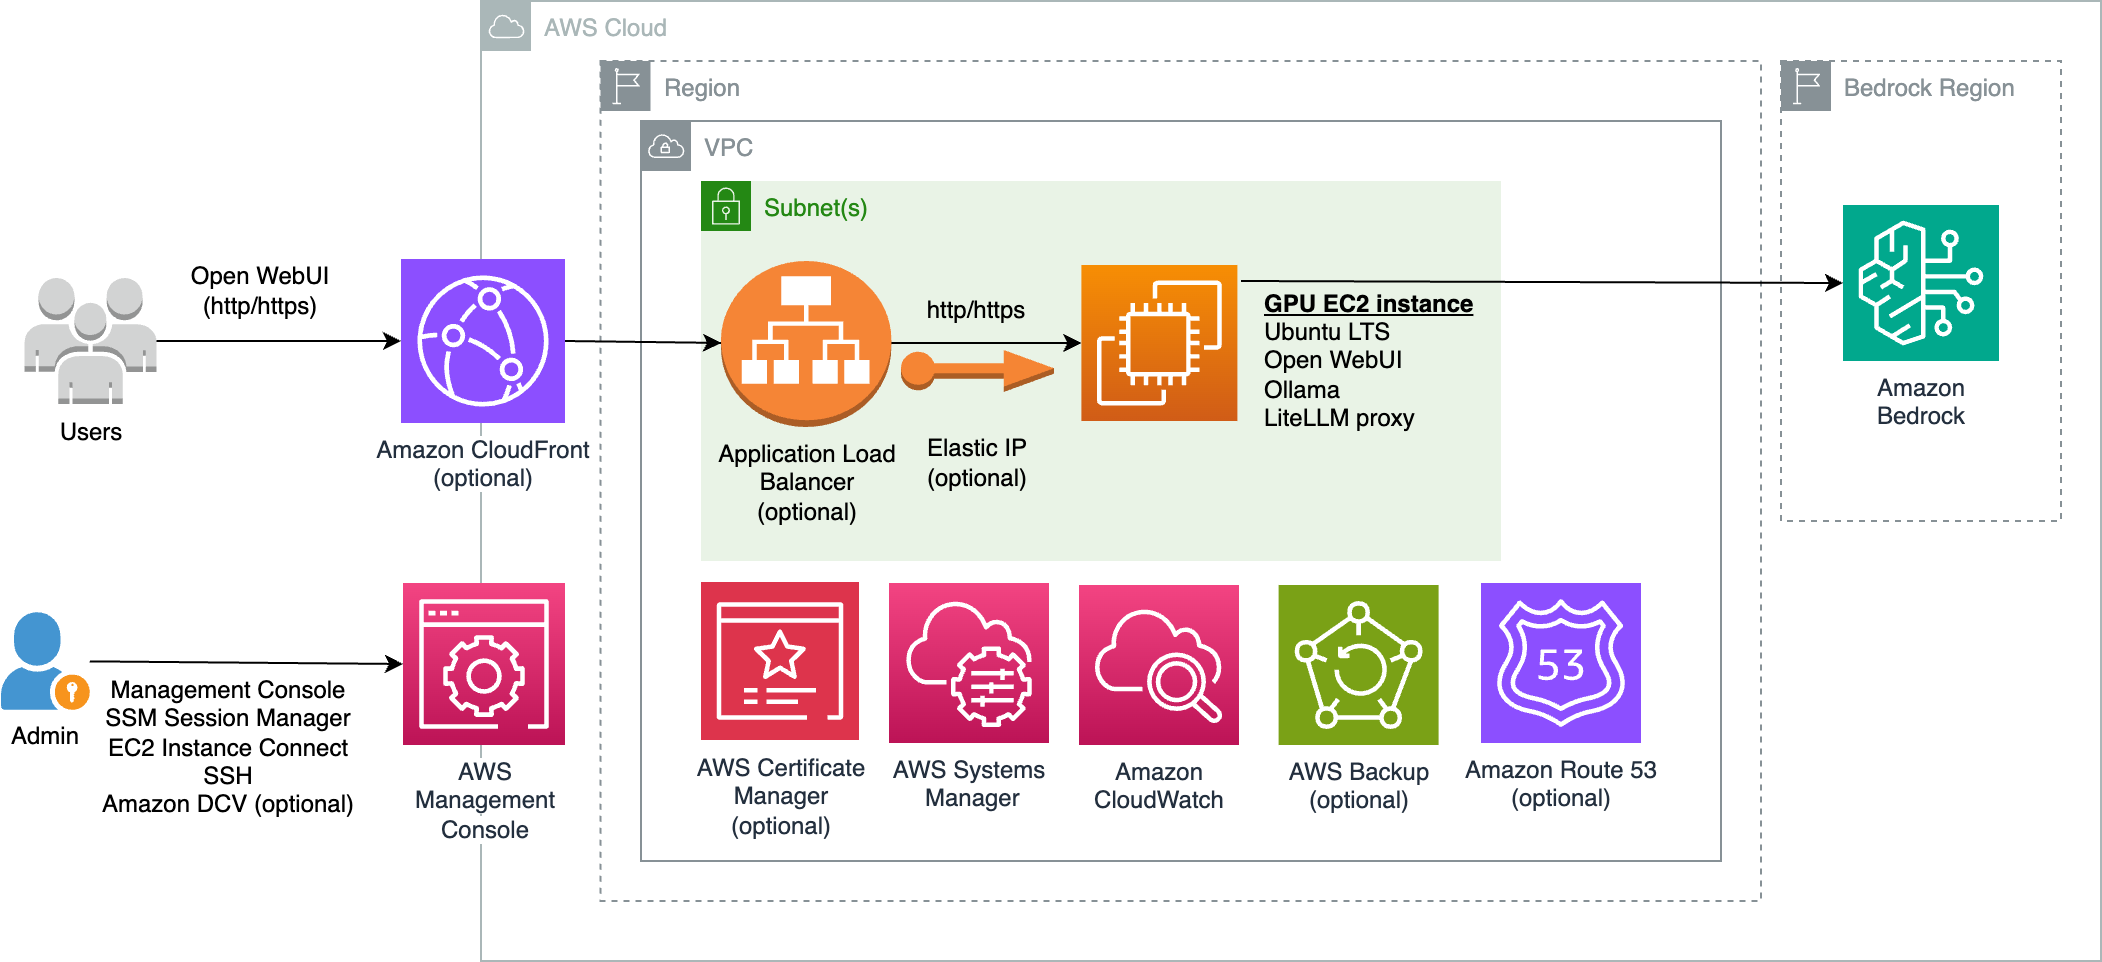
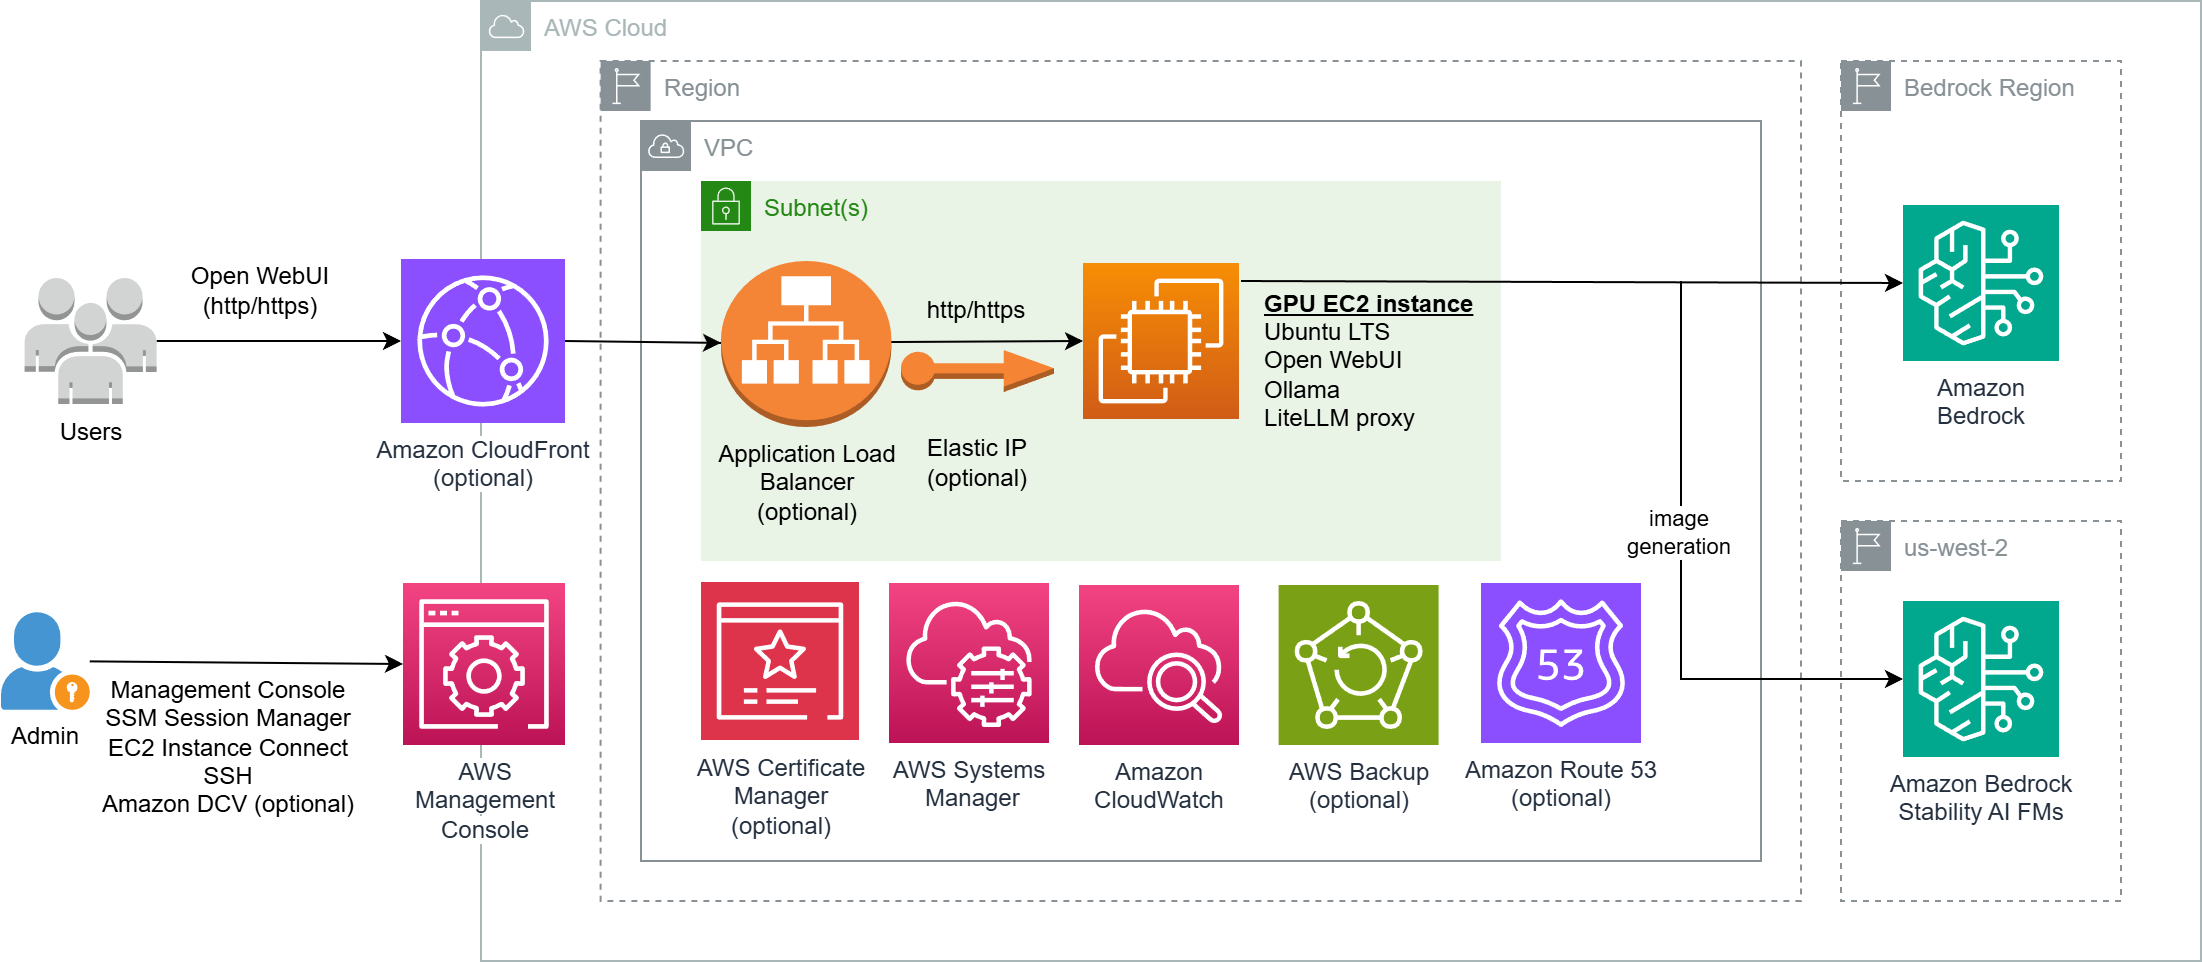
Image generation feature

diff --git a/README.md b/README.md
@@ -3,7 +3,7 @@
 [Ollama](https://ollama.com/) allows users to run open-source [large language models (LLMs)](https://aws.amazon.com/what-is/large-language-model/), offering a streamlined command line experience for interacting with and experimenting with these models. [Open WebUI](https://openwebui.com/) is an extensible, feature-rich, and user-friendly web interface to Ollama.  For best performance, a [GPU](https://github.com/ollama/ollama/blob/main/docs/gpu.md) is required.
 
 
-This repo provides a [AWS CloudFormation](https://aws.amazon.com/cloudformation/) template to provision [NVIDIA GPU EC2 instance](https://aws.amazon.com/ec2/instance-types/#Accelerated_Computing) with Ollama and Open WebUI, and include access to [Amazon Bedrock](https://aws.amazon.com/bedrock/) foundation models (FMs). Solution can be deployed as a website for LLM interaction (through Open WebUI) or for application development.
+This repo provides a [AWS CloudFormation](https://aws.amazon.com/cloudformation/) template to provision [NVIDIA GPU EC2 instances](https://aws.amazon.com/ec2/instance-types/#Accelerated_Computing) with Ollama and Open WebUI, and include access to [Amazon Bedrock](https://aws.amazon.com/bedrock/) foundation models (FMs). Solution can be deployed as a website for LLM interaction (through Open WebUI) or for application development.
 
 <img alt="Ollama with Amazon DCV" src="images/ollama-dcv.png">
 
@@ -17,10 +17,11 @@ Template provides the following features
 - NVIDIA GPU EC2 instance. Supported instance types include
   - x86_64: [G4dn](https://aws.amazon.com/ec2/instance-types/g4/#Product_Details), [G5](https://aws.amazon.com/ec2/instance-types/g5/), [G6](https://aws.amazon.com/ec2/instance-types/g6/#Product_details), [Gr6](https://aws.amazon.com/ec2/instance-types/g6/#Product_details), [G6e](https://aws.amazon.com/ec2/instance-types/g6e/), [P4d](https://aws.amazon.com/ec2/instance-types/p4/#Product_details), [P4de](https://aws.amazon.com/ec2/instance-types/p4/#Product_details), [P5](https://aws.amazon.com/ec2/instance-types/p5/#Product_details), [P5e](https://aws.amazon.com/ec2/instance-types/p5/#Product_details), [P5en](https://aws.amazon.com/ec2/instance-types/p5/#Product_details)
   - arm64: [G5g](https://aws.amazon.com/ec2/instance-types/g5g/)
-- [Generative AI](https://aws.amazon.com/ai/generative-ai/) related applications
+- [Generative AI](https://aws.amazon.com/ai/generative-ai/) applications
   - [Ollama](https://ollama.com/) for running and managing LLMs
-  - [LiteLLM proxy](https://www.litellm.ai/) to provide [Amazon Bedrock](https://aws.amazon.com/bedrock/) model access.  EC2 instance can be provisioned in AWS Region that does not support Bedrock
   - [Open WebUI](https://openwebui.com/) web interface for interacting with [local Ollama](https://ollama.com/library) and [remote Bedrock](https://docs.aws.amazon.com/bedrock/latest/userguide/models-supported.html) models
+    - [Amazon Bedrock](https://aws.amazon.com/bedrock/) model access through [LiteLLM proxy server](https://www.litellm.ai/)
+    - [Image generation](https://docs.openwebui.com/tutorials/images/#using-image-generation) using [Stability AI's](https://stability.ai/) [Stable Diffusion 3.5 Large](https://aws.amazon.com/blogs/aws/stable-diffusion-3-5-large-is-now-available-in-amazon-bedrock/) model in Bedrock (experimental)
 - Remote Administration
   - [Amazon DCV](https://aws.amazon.com/hpc/dcv/) remote display protocol server for graphical desktop access (optional)
   - [SSM Session Manager](https://docs.aws.amazon.com/systems-manager/latest/userguide/session-manager.html)  secure shell access 
@@ -30,6 +31,9 @@ Template provides the following features
   - [AWS Backup](https://aws.amazon.com/backup/) to protect EC2 instance data (optional)
   - [Application Load Balancer](https://aws.amazon.com/elasticloadbalancing/application-load-balancer/) with SSL/TLS certificate from [AWS Certificate Manager](https://aws.amazon.com/certificate-manager/) (optional)
   - [Amazon CloudFront](https://aws.amazon.com/cloudfront/) CDN with support for [VPC Origin](https://aws.amazon.com/blogs/networking-and-content-delivery/introducing-cloudfront-virtual-private-cloud-vpc-origins-shield-your-web-applications-from-public-internet/) (optional)
+
+
+*EC2 instance can be provisioned in AWS Region that does not support Bedrock*
 
 ## Notice
 Although this repository is released under the [MIT-0](LICENSE) license, its CloudFormation template uses third party components which are released under the following respective licenses
@@ -45,7 +49,8 @@ By using the template, you accept license agreement of all software that is inst
 ## Requirements
 - EC2 instance must be provisioned in a subnet with IPv4 internet connectivity
 - Check the [On-Demand Instance quota](https://docs.aws.amazon.com/ec2/latest/instancetypes/ec2-instance-quotas.html#on-demand-instance-quotas) value of your desired instance type and request quota increase where necessary
-- [Request access](https://docs.aws.amazon.com/bedrock/latest/userguide/model-access-modify.html) to models in desired [Bedrock Region](https://docs.aws.amazon.com/bedrock/latest/userguide/models-regions.html)
+- [Request access](https://docs.aws.amazon.com/bedrock/latest/userguide/model-access-modify.html) to foundational models in desired [Bedrock Region](https://docs.aws.amazon.com/bedrock/latest/userguide/models-regions.html)
+- To use Open WebUI [image generation](https://docs.openwebui.com/tutorials/images/#using-image-generation) feature, request access to `Stable Diffusion 3.5 Large` model in [us-west-2 Region](https://us-west-2.console.aws.amazon.com/bedrock/home?region=us-west-2#/modelaccess)
 - To use [Application Load Balancer (ALB)](https://aws.amazon.com/elasticloadbalancing/application-load-balancer/) with HTTPS, either [request a public certificate](https://docs.aws.amazon.com/acm/latest/userguide/acm-public-certificates.html) or [import a certificate](https://docs.aws.amazon.com/acm/latest/userguide/import-certificate.html) into [AWS Certificate Manager](https://aws.amazon.com/certificate-manager/)
 
 
@@ -135,7 +140,7 @@ If `installDCV` is `Yes`
 
 
 #### Open WebUI
-If `installWebUI` is `Yes`
+If `installWebUI` is `Yes`**
 - `WebUrl`: Open WebUI URL
 
 If `enableALB` is `Yes`
@@ -146,7 +151,7 @@ If `enableCloudFront` is `Yes`
 - `CloudFrontConsole` : CloudFront console URL link
 - `CloudFrontURL` : CloudFront distribution URL, e.g. `https://d111111abcdef8.cloudfront.net`
 
-*Go to EC2, ALB, or CloudFront URL and create an administrative account immediately*
+\** *Go to EC2, ALB, or CloudFront URL and create an administrative account immediately*
 
 
 
@@ -162,7 +167,7 @@ To troubleshoot any installation issue, you can view contents of the following l
 ## Using Ollama and Open WebUI
 
 ### Managing models
-Refer to [Starting With Ollama](https://docs.openwebui.com/getting-started/quick-start/starting-with-ollama/) for guidance to manage models. Ollama [site](https://ollama.com/search) provides a listing of available language models and their size (e.g. [DeepSeek](https://ollama.com/library/deepseek-r1/tags)). For best performance, ensure that model size is less than GPU memory size. You can refer to [EC2 Accelerated Computing page](https://aws.amazon.com/ec2/instance-types/#Accelerated_Computing) for GPU memory size specifications.
+Refer to [Starting With Ollama](https://docs.openwebui.com/getting-started/quick-start/starting-with-ollama/) for guidance on managing models. Ollama [site](https://ollama.com/search) provides a listing of available language models and their size (e.g. [DeepSeek](https://ollama.com/library/deepseek-r1/tags)). For best performance, ensure that model size is less than GPU memory size. You can refer to [EC2 Accelerated Computing page](https://aws.amazon.com/ec2/instance-types/#Accelerated_Computing) for GPU memory size specifications.
 
 ### Change EC2 instance type
 If you need more powerful instance , you can [change instance type](https://docs.aws.amazon.com/AWSEC2/latest/UserGuide/change-instance-type-of-ebs-backed-instance.html).
@@ -171,13 +176,13 @@ If you need more powerful instance , you can [change instance type](https://docs
 If you are running out of disk space to download models, [increase EBS volume](https://docs.aws.amazon.com/ebs/latest/userguide/requesting-ebs-volume-modifications.html) and [extend file system](https://docs.aws.amazon.com/ebs/latest/userguide/recognize-expanded-volume-linux.html)
 
 ### Customisation
-[Docker compose](https://docs.docker.com/compose/) is used to run Open WebUI and LiteLLM proxy. You can customise [Open WebUI](https://docs.openwebui.com/getting-started/env-configuration/) and [Lite LLM](https://docs.litellm.ai/docs/proxy/configs) configuration by modifying `/opt/docker/compose.yaml`. Bedrock models are specified in `/opt/docker/bedrock-models.yaml`.
+[Docker compose](https://docs.docker.com/compose/) is used to run Open WebUI and LiteLLM proxy. You can customise [Open WebUI](https://docs.openwebui.com/getting-started/env-configuration/) and [LiteLLM Proxy Server](https://docs.litellm.ai/docs/proxy/configs) configuration by modifying `/opt/docker/compose.yaml`. Amazon Bedrock text and image models are specified in `/opt/docker/bedrock-models.yaml` and `/opt/docker/bedrock-image-models.yaml` respectively.
 
 ### Remote connectivity to underlying services
-Nginx (`/etc/nginx/sites-available/reverse-proxy`) is used to provide HTTP and [HTTPS](https://docs.openwebui.com/getting-started/advanced-topics/https-encryption/) access to Open WebUI which listens on TCP port 8080. 
+Nginx (`/etc/nginx/sites-available/reverse-proxy`) is used to provide HTTP and [HTTPS](https://docs.openwebui.com/getting-started/advanced-topics/https-encryption/) access to Open WebUI which listens on TCP port 8080.
 
-Ollama and LiteLLM are configured to listen on TCP port 11434 and 4000 on EC2 instance network interface.
-To allow remote access, modify EC2 instance security group [inbound rules](https://docs.aws.amazon.com/quicksight/latest/user/vpc-inbound-rules.html).  You can use Nginx to provide HTTPS encryption. 
+Ollama, LiteLLM(text) and LiteLLM(image) are configured to listen on EC2 instance's network interface on TCP port 11434, 4000 and 4100 respectively.
+To allow remote connections, modify EC2 instance security group [inbound rules](https://docs.aws.amazon.com/quicksight/latest/user/vpc-inbound-rules.html) to allow access from your IP address.  You can use Nginx to provide HTTPS encryption. 
 If ALB is provisioned (`enableALB`), you can create a [HTTP](https://docs.aws.amazon.com/elasticloadbalancing/latest/application/create-listener.html) or
  (preferably) [HTTPS](https://docs.aws.amazon.com/elasticloadbalancing/latest/application/create-https-listener.html) ALB listener to EC2 instance.
 
@@ -186,7 +191,7 @@ Amazon CloudFront (`enableCloudFront`) [supports](https://docs.aws.amazon.com/Am
 
 The EC2 instance uses a self-signed certificate for HTTPS. You can use [Certbot](https://certbot.eff.org/pages/about) to obtain and install [Let's Encrypt](https://letsencrypt.org/) certificate on your web server.
 
-### Certbot prerequisites
+### Using Certbot
 Ensure you have a domain name whose DNS entry resolves to your EC2 instance IP address. If you do not have a domain, you can [register a new domain](https://docs.aws.amazon.com/Route53/latest/DeveloperGuide/domain-register.html#domain-register-procedure-section) using [Amazon Route 53](https://aws.amazon.com/route53/) and [create a DNS A and/or AAAA record](https://docs.aws.amazon.com/Route53/latest/DeveloperGuide/resource-record-sets-creating.html).
 
   
@@ -244,15 +249,11 @@ To futher secure your EC2 instance, you may want to consider the following
 - Enable [Amazon Inspector](https://aws.amazon.com/inspector/) to [scan EC2 instance](https://docs.aws.amazon.com/inspector/latest/user/scanning-ec2.html) for software vulnerabilities and unintended network exposure.
 - Enable [Amazon GuardDuty](https://aws.amazon.com/guardduty/) security monitoring service with [Runtime Monitoring](https://docs.aws.amazon.com/guardduty/latest/ug/how-runtime-monitoring-works-ec2.html) and [Malware Protection for EC2](https://docs.aws.amazon.com/guardduty/latest/ug/malware-protection.html)
 
-
-
-
 ## Clean Up
 To remove created resources, you will need to
 - [Delete](https://docs.aws.amazon.com/aws-backup/latest/devguide/deleting-backups.html) any recovery points in created backup vault
 - [Disable](https://docs.aws.amazon.com/AWSEC2/latest/UserGuide/Using_ChangingDisableAPITermination.html) EC2 instance termination protection (if enabled)
 - [Delete](https://docs.aws.amazon.com/AWSCloudFormation/latest/UserGuide/cfn-console-delete-stack.html) CloudFormation stack
-
 
 ## Security
 
@@ -261,4 +262,3 @@ See [CONTRIBUTING](CONTRIBUTING.md#security-issue-notifications) for more inform
 ## License
 
 This library is licensed under the MIT-0 License. See the LICENSE file.
-
